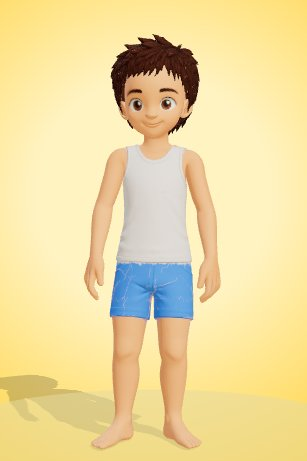
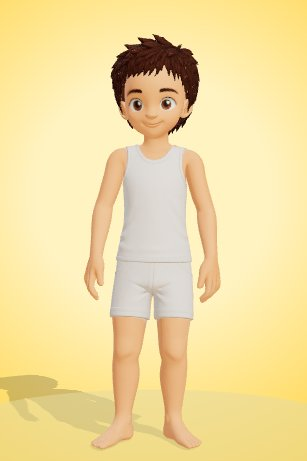
3D-forsøg: ny figur i hvidt undertøj uden navn, alt naturligt

Changed region(s): [[0.3518, 0.5466, 0.645, 0.6985]]

diff --git a/3d-forsoeg/index.html b/3d-forsoeg/index.html
@@ -2166,9 +2166,10 @@ document.getElementById('keepChoice').addEventListener('click', e => { const c =
   document.getElementById('keepChoice').hidden = true;
   const b = document.getElementById('keepBtn'); b.classList.remove('pop'); void b.offsetWidth; b.classList.add('pop');
   toast(keepFig(c.dataset.pic, picCache[c.dataset.pic]) ? '⭐ Gemt!' : 'Kunne ikke gemme'); });
-// (a new MiniMig from the start: every tab back to its first choice, standing in underwear - a boy with short hair in
-// the white vest and blue shorts, a girl with plaits in pink underwear, as in the app)
-const newFig = kind => ({ picked: kind === 'pige' ? { shirt: '#FF6FB1', pants: '#FF6FB1' } : { pants: '#3D8BFF' }, hair: kind === 'pige' ? 'haar-fletninger' : 'haar-kort',
+// (a new MiniMig from the start: every tab back to its first choice - natural nose, eyes and brows, the smile - in the
+// all-white vest and shorts and nothing else, no name, every colour the figure's own; a boy with short hair or a girl
+// with plaits. The user dropped the app's pink and blue underwear)
+const newFig = kind => ({ picked: {}, hair: kind === 'pige' ? 'haar-fletninger' : 'haar-kort',
   eyes: 'oejne-naturlige', brows: 'bryn-naturlige', mouth: 'mund-smil', nose: 'naese-naturlig', pynt: [], wear: Object.fromEntries(Object.keys(GARMENTS).map(p => [p, ''])), name: '', badge: 'ingen', item: '' });
 const sameFig = (a, b) => !!a && !!b && JSON.stringify(a) === JSON.stringify(b);
 document.getElementById('newBtn').addEventListener('click', () => { document.getElementById('newChoice').hidden = false; });
